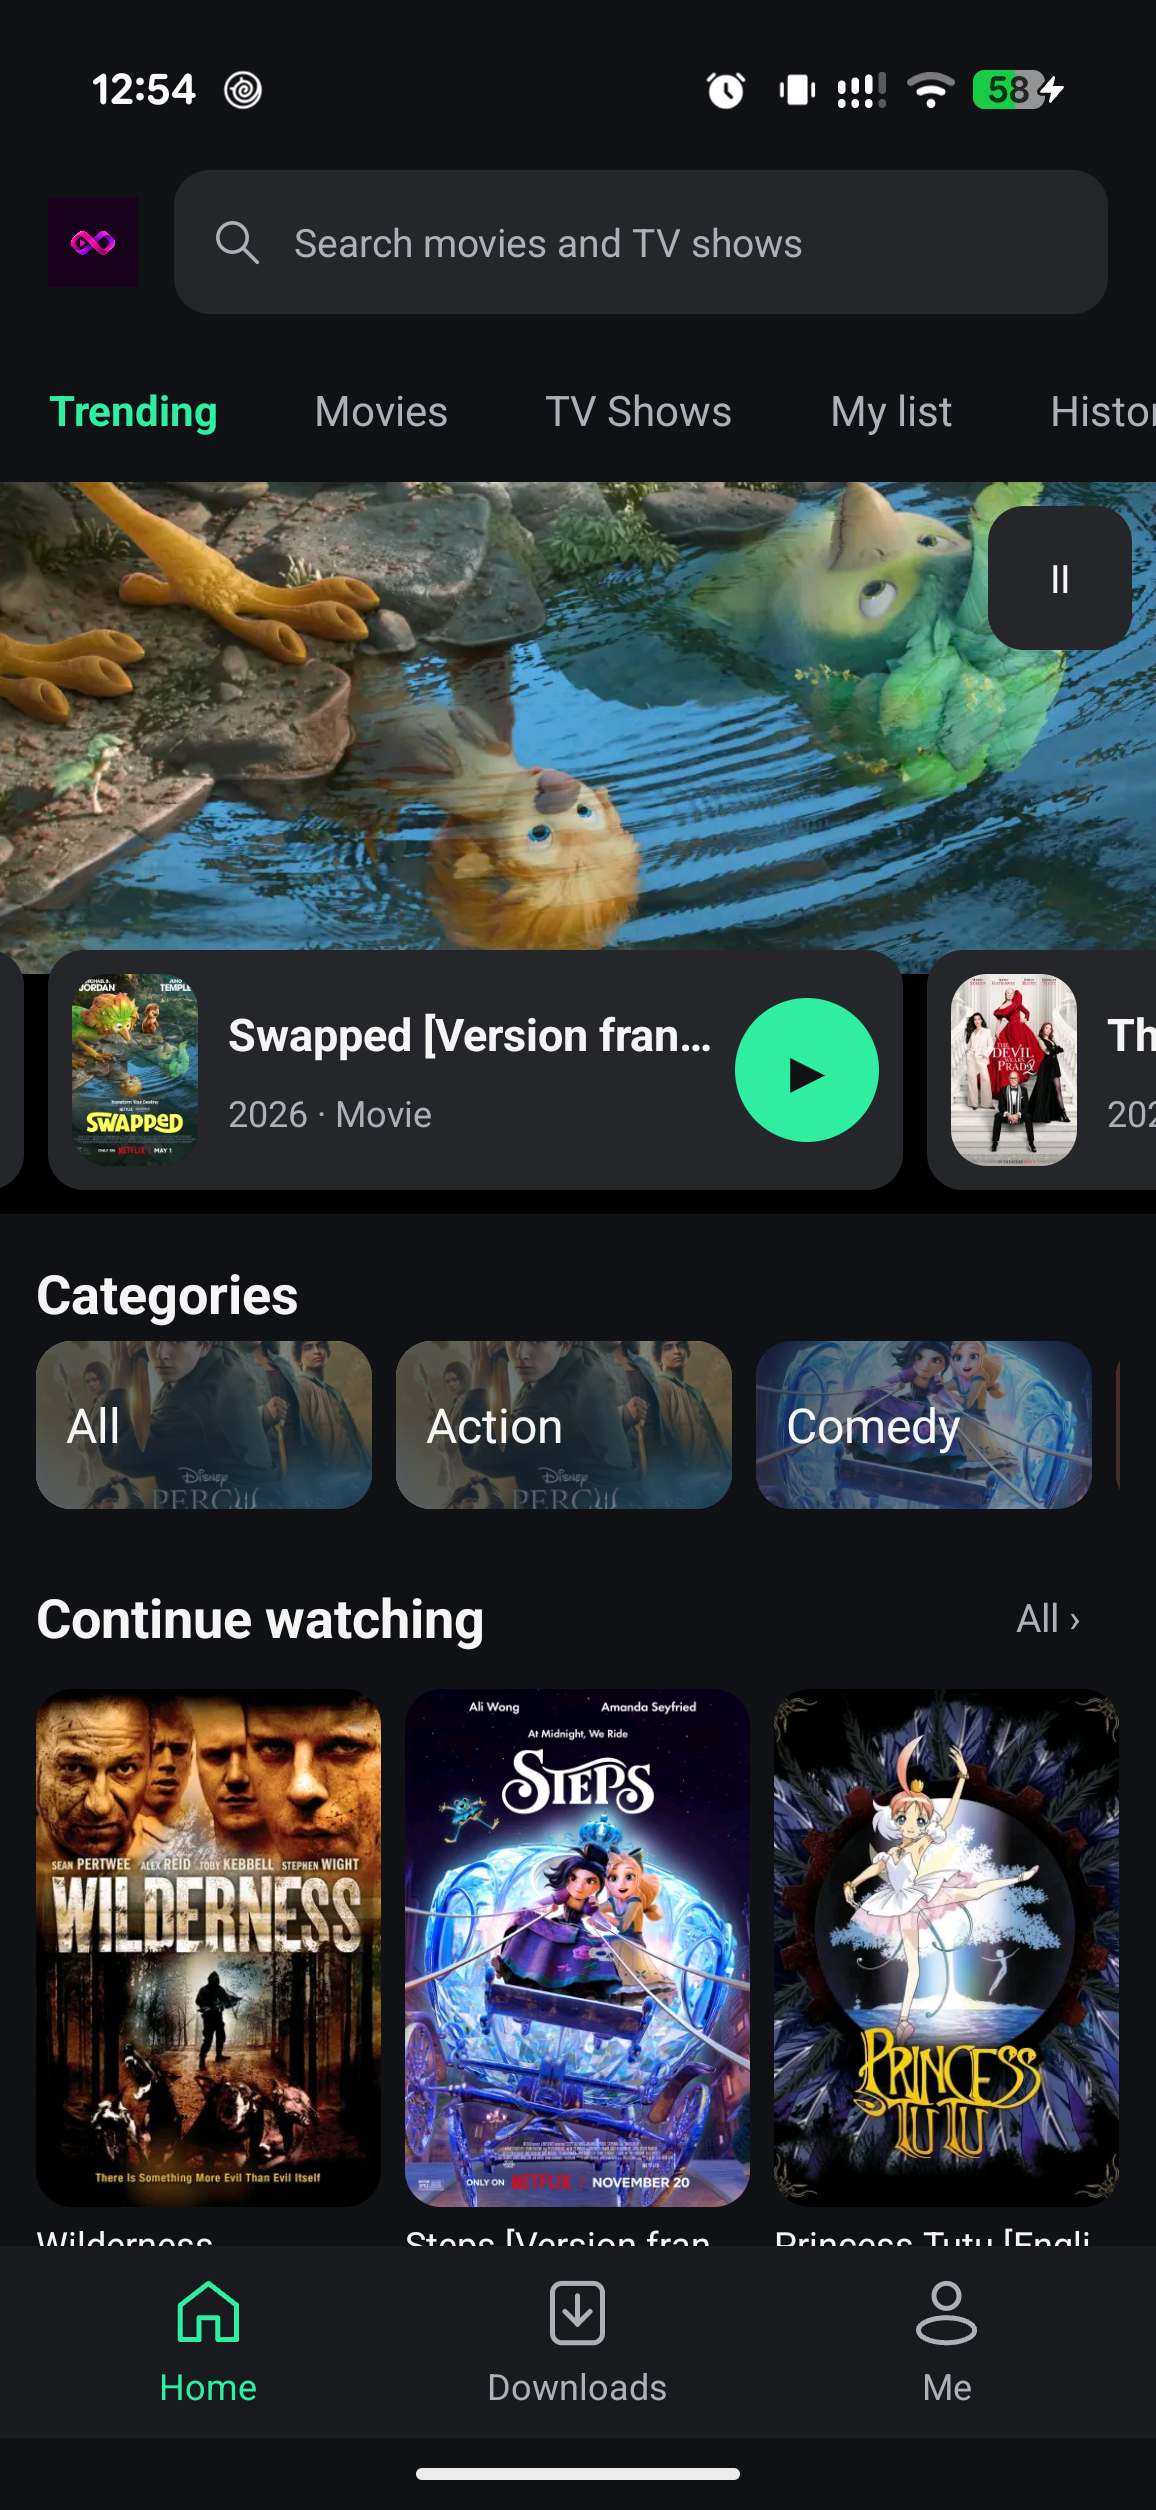
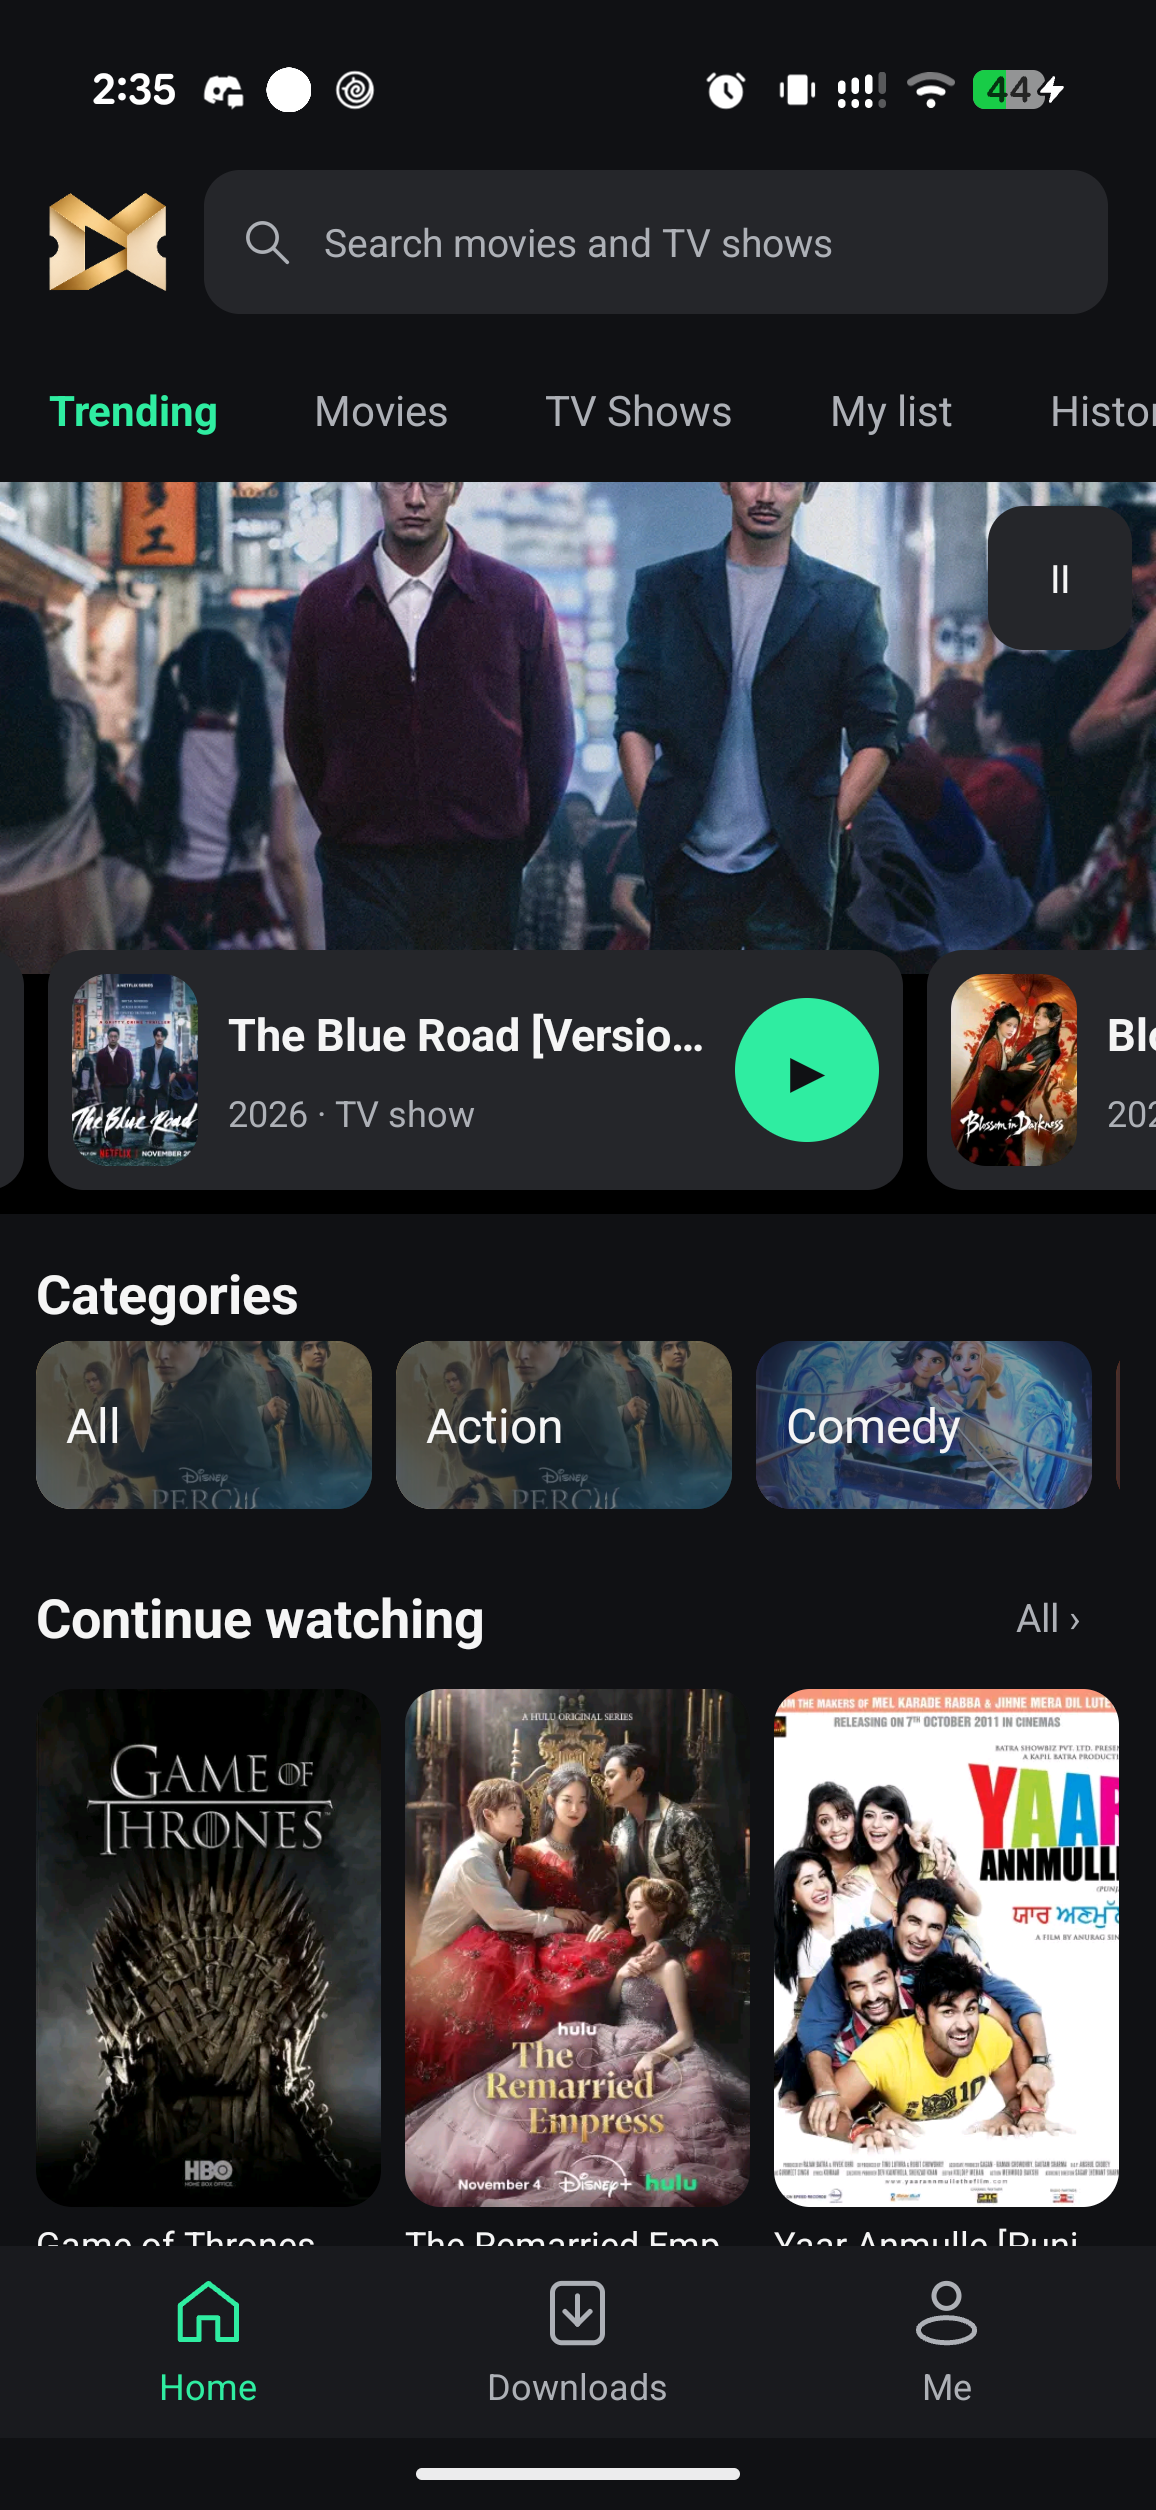
Document genuine 0.1.1 build 4 screenshots for later sync [skip ci]

diff --git a/README.md b/README.md
@@ -6,7 +6,10 @@ The installed app is named **MovieBox**.
 
 [Download the latest APK](https://github.com/emransm877/moviebox-android-native/releases/latest) | [All MovieBox projects](https://emransm877.github.io/moviebox-projects/) | [Report a problem](https://github.com/emransm877/moviebox-android-native/issues)
 
-<img src="docs/images/native-home.png" alt="The native MovieBox Android App home screen on the maintainer's phone" width="280">
+<img src="docs/images/native-home.png" alt="MovieBox Android App 0.1.1 build 4 home screen on an Android 17 phone" width="280">
+<img src="docs/images/native-icons.png" alt="Transparent icon choices in MovieBox Android App 0.1.1 build 4" width="280">
+
+Actual 0.1.1 build 4 captures from the maintainer's Android 17 phone.
 
 ## Get started
 
